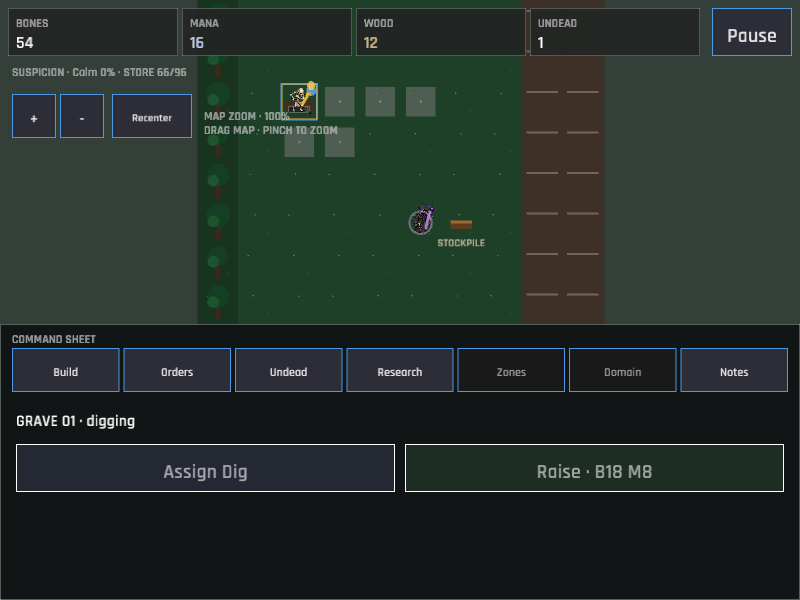
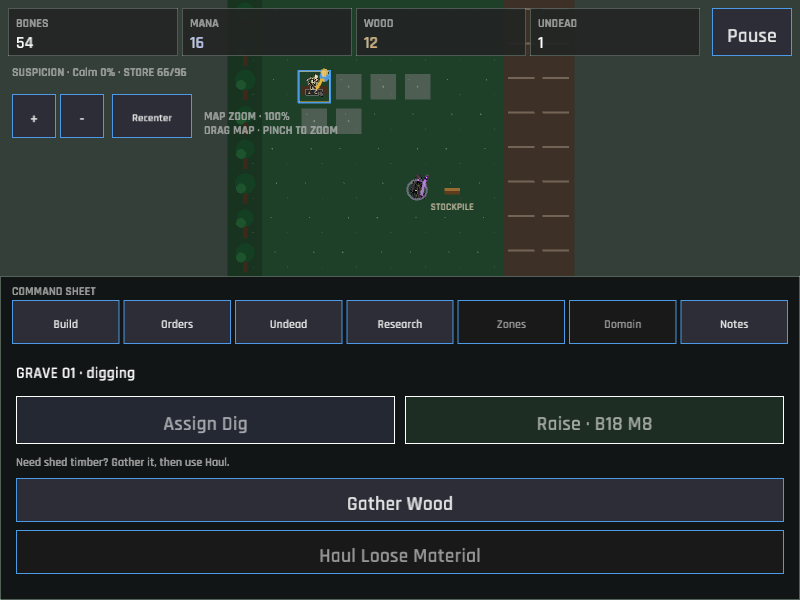
The graveyard teaches its first skeleton to gather the timber it needs (starter wood orders and haul flow)
The first cemetery opened with too little stored wood for the Work Shed, while the initial grave inspector only exposed digging and raising. A player could technically discover the Wood job by selecting the moving skeleton, but the one-worker opening gave no clear route from timber gathering to construction.

The starting grave now exposes Gather Wood on desktop and compact touch layouts, followed by Haul Loose Material when a pile exists. The opening field note and grave guidance name the exact Gather Wood then Haul sequence, and Wood assignment feedback explains why the order must be changed after a cycle. The grave controls are split into their own module so the UI source remains under the 800-line limit. A simulation test verifies the starting worker can reach the forest and produce loose wood before the shed exists, while refreshed gameplay captures cover both layouts.

Verified with cargo fmt -- --check, cargo test, cargo clippy --all-targets --all-features -- -D warnings, and .\\publish.ps1 for Windows and WebGL. The local Project Roost tracking endpoint remained unavailable during publish, but deployment and catalog sync completed.

diff --git a/src/ui/hud.rs b/src/ui/hud.rs
@@ -1,12 +1,14 @@
 //! Status strip and contextual inspector.
 
+mod grave;
+
 use super::buildings;
 use super::components::{compact_virtual_button, pause_control_rect};
 use super::components::{stage_label, status_label, virtual_button};
 use super::production::{draw_kiln_inspector, is_kiln};
 use super::{Panel, UiAction, UiContext};
 use crate::state::{
-    BuildingKind, GamePhase, JobKind, PlotStatus, Selection, Technology, UndeadKind, WorkerStatus,
+    BuildingKind, GamePhase, JobKind, Selection, Technology, UndeadKind, WorkerStatus,
 };
 use macroquad::prelude::*;
 use macroquad_toolkit::prelude::*;
@@ -196,7 +198,7 @@ pub(super) fn draw_inspector(ctx: &UiContext<'_>, pointer: Pointer, actions: &mu
         dark::TEXT_DIM,
     );
     match selection {
-        Selection::Grave(index) => draw_grave_inspector(ctx, pointer, actions, panel, index),
+        Selection::Grave(index) => grave::draw(ctx, pointer, actions, panel, index),
         Selection::Worker(index) => draw_worker_inspector(ctx, pointer, actions, panel, index),
         Selection::Building(index) => draw_building_inspector(ctx, pointer, actions, panel, index),
         Selection::Ground(tile) => {
@@ -325,101 +327,6 @@ pub(super) fn draw_inspector(ctx: &UiContext<'_>, pointer: Pointer, actions: &mu
                 ));
             }
         }
-    }
-}
-
-fn draw_grave_inspector(
-    ctx: &UiContext<'_>,
-    pointer: Pointer,
-    actions: &mut Vec<UiAction>,
-    panel: Rect,
-    index: usize,
-) {
-    let Some(plot) = ctx.session.world.plots.get(index) else {
-        return;
-    };
-    draw_text_block(
-        &format!("Grave {:02}", index + 1),
-        panel.x + 18.0,
-        panel.y + 54.0,
-        panel.w - 36.0,
-        28.0,
-        24.0,
-        0.0,
-        dark::TEXT_BRIGHT,
-    );
-    let state = match plot.status {
-        PlotStatus::Ready => "Undisturbed",
-        PlotStatus::Digging => "Excavation underway",
-        PlotStatus::Dug => "Open excavation",
-        PlotStatus::Locked => "Outside the clearing",
-    };
-    draw_text_block(
-        state,
-        panel.x + 18.0,
-        panel.y + 94.0,
-        panel.w - 36.0,
-        22.0,
-        15.0,
-        0.0,
-        if plot.status == PlotStatus::Digging {
-            dark::WARNING
-        } else {
-            dark::TEXT
-        },
-    );
-    if plot.status == PlotStatus::Digging {
-        progress_bar(
-            panel.x + 18.0,
-            panel.y + 128.0,
-            panel.w - 36.0,
-            12.0,
-            plot.progress,
-            ctx.data.jobs.get("dig").map_or(8.0, |job| job.work_seconds),
-            dark::WARNING,
-        );
-    }
-    draw_text_block(
-        if plot.status == PlotStatus::Dug {
-            "The earth is yielding bones and the chance of a corpse remnant."
-        } else {
-            "A worker can be assigned here when the shovel is free."
-        },
-        panel.x + 18.0,
-        panel.y + 158.0,
-        panel.w - 36.0,
-        54.0,
-        14.0,
-        4.0,
-        dark::TEXT_DIM,
-    );
-    if virtual_button(
-        Rect::new(panel.x + 18.0, panel.y + 244.0, panel.w - 36.0, 44.0),
-        "Assign selected worker · Dig",
-        plot.status == PlotStatus::Ready && ctx.session.phase == GamePhase::Playing,
-        ButtonTone::Primary,
-        pointer,
-    ) {
-        actions.push(UiAction::AssignJob(JobKind::Dig));
-    }
-    let skeleton_def = ctx
-        .data
-        .undead
-        .get(UndeadKind::Skeleton.id())
-        .expect("validated skeleton recipe");
-    if virtual_button(
-        Rect::new(panel.x + 18.0, panel.y + 300.0, panel.w - 36.0, 44.0),
-        &format!(
-            "Raise skeleton · B{} M{}",
-            skeleton_def.bones_cost, skeleton_def.mana_cost
-        ),
-        plot.status == PlotStatus::Dug
-            && ctx.session.economy.bones >= skeleton_def.bones_cost
-            && ctx.session.economy.mana >= skeleton_def.mana_cost,
-        ButtonTone::Positive,
-        pointer,
-    ) {
-        actions.push(UiAction::Raise(UndeadKind::Skeleton));
     }
 }
 

diff --git a/src/ui/hud/grave.rs b/src/ui/hud/grave.rs
@@ -1,0 +1,122 @@
+//! Contextual controls for a selected grave and its nearby worker loop.
+
+use super::super::components::virtual_button;
+use super::super::{UiAction, UiContext};
+use crate::state::{GamePhase, JobKind, PlotStatus, UndeadKind};
+use macroquad::prelude::*;
+use macroquad_toolkit::prelude::*;
+use macroquad_toolkit::ui::Pointer;
+
+pub(super) fn draw(
+    ctx: &UiContext<'_>,
+    pointer: Pointer,
+    actions: &mut Vec<UiAction>,
+    panel: Rect,
+    index: usize,
+) {
+    let Some(plot) = ctx.session.world.plots.get(index) else {
+        return;
+    };
+    draw_text_block(
+        &format!("Grave {:02}", index + 1),
+        panel.x + 18.0,
+        panel.y + 54.0,
+        panel.w - 36.0,
+        28.0,
+        24.0,
+        0.0,
+        dark::TEXT_BRIGHT,
+    );
+    let state = match plot.status {
+        PlotStatus::Ready => "Undisturbed",
+        PlotStatus::Digging => "Excavation underway",
+        PlotStatus::Dug => "Open excavation",
+        PlotStatus::Locked => "Outside the clearing",
+    };
+    draw_text_block(
+        state,
+        panel.x + 18.0,
+        panel.y + 94.0,
+        panel.w - 36.0,
+        22.0,
+        15.0,
+        0.0,
+        if plot.status == PlotStatus::Digging {
+            dark::WARNING
+        } else {
+            dark::TEXT
+        },
+    );
+    if plot.status == PlotStatus::Digging {
+        progress_bar(
+            panel.x + 18.0,
+            panel.y + 128.0,
+            panel.w - 36.0,
+            12.0,
+            plot.progress,
+            ctx.data.jobs.get("dig").map_or(8.0, |job| job.work_seconds),
+            dark::WARNING,
+        );
+    }
+    draw_text_block(
+        if plot.status == PlotStatus::Dug {
+            "The earth is yielding bones and the chance of a corpse remnant."
+        } else {
+            "A worker can dig here. Need shed timber? Assign Gather Wood, then Haul the loose wood into the stockpile."
+        },
+        panel.x + 18.0,
+        panel.y + 158.0,
+        panel.w - 36.0,
+        54.0,
+        14.0,
+        4.0,
+        dark::TEXT_DIM,
+    );
+    if virtual_button(
+        Rect::new(panel.x + 18.0, panel.y + 244.0, panel.w - 36.0, 44.0),
+        "Assign selected worker · Dig",
+        plot.status == PlotStatus::Ready && ctx.session.phase == GamePhase::Playing,
+        ButtonTone::Primary,
+        pointer,
+    ) {
+        actions.push(UiAction::AssignJob(JobKind::Dig));
+    }
+    if virtual_button(
+        Rect::new(panel.x + 18.0, panel.y + 300.0, panel.w - 36.0, 44.0),
+        "Gather Wood",
+        ctx.session.phase == GamePhase::Playing,
+        ButtonTone::Secondary,
+        pointer,
+    ) {
+        actions.push(UiAction::AssignJob(JobKind::Wood));
+    }
+    if virtual_button(
+        Rect::new(panel.x + 18.0, panel.y + 356.0, panel.w - 36.0, 44.0),
+        "Haul Loose Material",
+        (ctx.session.economy.loose_bones > 0 || ctx.session.economy.loose_wood > 0)
+            && ctx.session.phase == GamePhase::Playing,
+        ButtonTone::Secondary,
+        pointer,
+    ) {
+        actions.push(UiAction::AssignJob(JobKind::Haul));
+    }
+    let skeleton_def = ctx
+        .data
+        .undead
+        .get(UndeadKind::Skeleton.id())
+        .expect("validated skeleton recipe");
+    if virtual_button(
+        Rect::new(panel.x + 18.0, panel.y + 412.0, panel.w - 36.0, 44.0),
+        &format!(
+            "Raise skeleton · B{} M{}",
+            skeleton_def.bones_cost, skeleton_def.mana_cost
+        ),
+        plot.status == PlotStatus::Dug
+            && ctx.session.economy.bones >= skeleton_def.bones_cost
+            && ctx.session.economy.mana >= skeleton_def.mana_cost,
+        ButtonTone::Positive,
+        pointer,
+    ) {
+        actions.push(UiAction::Raise(UndeadKind::Skeleton));
+    }
+}

diff --git a/src/ui/responsive/selection.rs b/src/ui/responsive/selection.rs
@@ -274,6 +274,35 @@ fn draw_grave(
     ) {
         actions.push(UiAction::AssignJob(JobKind::Dig));
     }
+    draw_text_block(
+        "Need shed timber? Gather it, then use Haul.",
+        sheet.x + 16.0,
+        sheet.y + 178.0,
+        sheet.w - 32.0,
+        18.0,
+        11.0,
+        0.0,
+        dark::TEXT_DIM,
+    );
+    if virtual_button(
+        Rect::new(sheet.x + 16.0, sheet.y + 202.0, sheet.w - 32.0, 44.0),
+        "Gather Wood",
+        ctx.session.phase == GamePhase::Playing,
+        ButtonTone::Secondary,
+        pointer,
+    ) {
+        actions.push(UiAction::AssignJob(JobKind::Wood));
+    }
+    if virtual_button(
+        Rect::new(sheet.x + 16.0, sheet.y + 254.0, sheet.w - 32.0, 44.0),
+        "Haul Loose Material",
+        (ctx.session.economy.loose_bones > 0 || ctx.session.economy.loose_wood > 0)
+            && ctx.session.phase == GamePhase::Playing,
+        ButtonTone::Secondary,
+        pointer,
+    ) {
+        actions.push(UiAction::AssignJob(JobKind::Haul));
+    }
     if virtual_button(
         Rect::new(
             sheet.x + 26.0 + button_width,

diff --git a/src/engine/jobs/tests.rs b/src/engine/jobs/tests.rs
@@ -23,6 +23,25 @@ fn digging_completes_and_produces_loose_bones() {
 }
 
 #[test]
+fn starting_worker_can_gather_wood_before_the_shed_exists() {
+    let data = crate::data::GameData::load().unwrap();
+    let mut session = GameSession::new(&data.config);
+    session.begin();
+
+    assign_job(&mut session, JobKind::Wood).unwrap();
+    simulate_for_seconds(&mut session, &data, 10.0);
+
+    assert!(session.economy.loose_wood > 0);
+    let shed_cost = data
+        .buildings
+        .get("work_shed")
+        .expect("validated work shed")
+        .wood_cost;
+    assert!(session.economy.wood < shed_cost);
+    assert_eq!(session.workforce.workers[0].assignment, JobKind::Wood);
+}
+
+#[test]
 fn hauling_respects_worker_capacity() {
     let data = crate::data::GameData::load().unwrap();
     let mut session = GameSession::new(&data.config);

diff --git a/src/engine/jobs.rs b/src/engine/jobs.rs
@@ -48,7 +48,15 @@ pub fn assign_job(session: &mut GameSession, job: JobKind) -> Result<(), String>
     worker.progress = 0.0;
     worker.status = WorkerStatus::Idle;
     worker.carrying = 0;
-    session.add_feed(format!("{} assigned to {}.", worker_name, job.label()));
+    let message = if job == JobKind::Wood {
+        format!(
+            "{} assigned to Gather Wood. Reassign it to Haul when timber is loose.",
+            worker_name
+        )
+    } else {
+        format!("{} assigned to {}.", worker_name, job.label())
+    };
+    session.add_feed(message);
     Ok(())
 }
 

diff --git a/src/state.rs b/src/state.rs
@@ -591,7 +591,7 @@ impl GameSession {
                 active_event: None,
                 event_history: Vec::new(),
                 feed: vec![FeedEntry {
-                    message: "The shed is empty, the grave is waiting.".to_owned(),
+                    message: "Need shed wood? Tap Gather Wood, then Haul.".to_owned(),
                     age_seconds: 0.0,
                 }],
                 last_reason: "Quiet cemetery".to_owned(),

diff --git a/src/ui/tests.rs b/src/ui/tests.rs
@@ -10,6 +10,7 @@ fn world_grid_rect_is_large_enough_for_a_touch_first_map() {
 #[test]
 fn action_names_are_visible_and_stable() {
     assert_eq!(JobKind::Dig.label(), "Dig");
+    assert_eq!(JobKind::Wood.label(), "Wood");
     assert_eq!(JobKind::Guard.label(), "Guard");
     assert_eq!(JobKind::Refine.label(), "Refine");
     assert_eq!(UndeadKind::BruteSkeleton.id(), "brute_skeleton");
